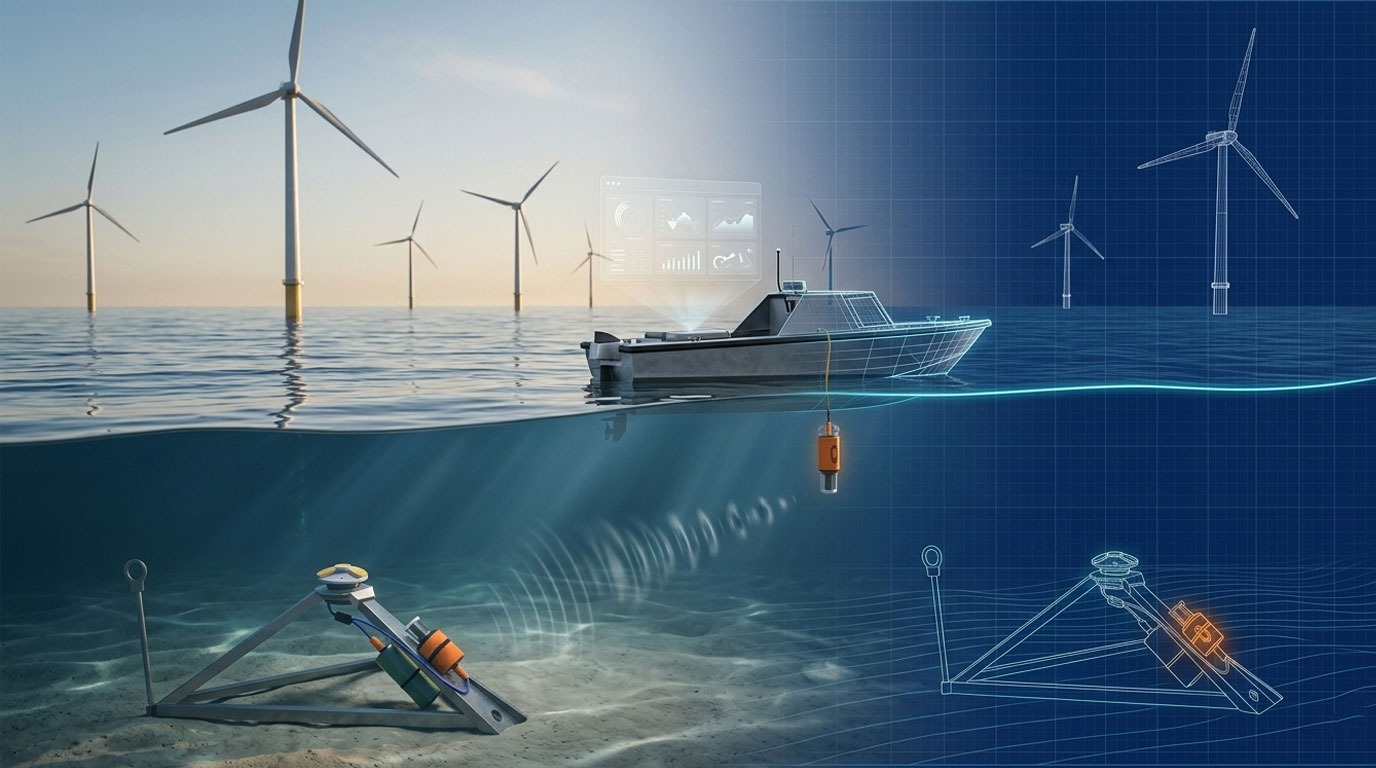
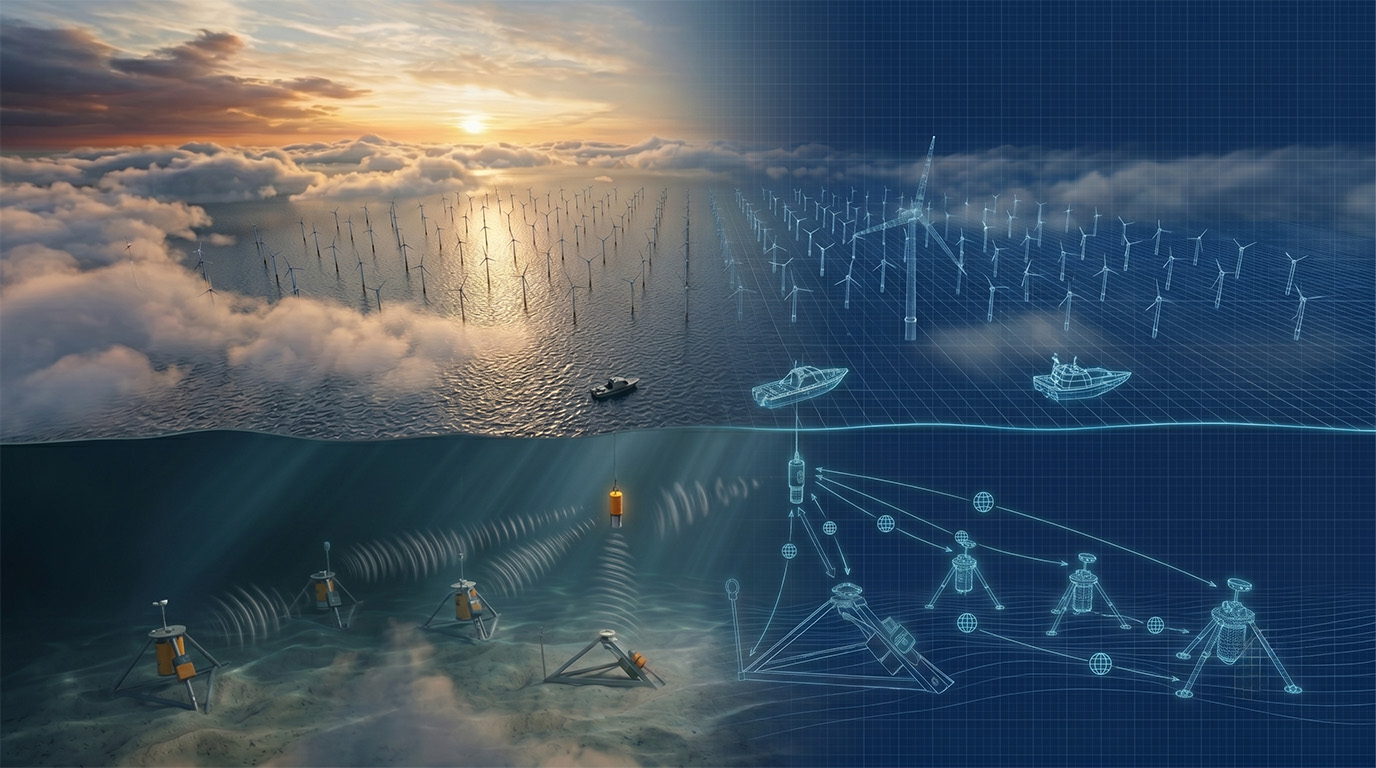
Merge pull request #364 from subnero1/solutions-update
Solutions update

Pull request: Solutions update

diff --git a/css/style.css b/css/style.css
@@ -4248,7 +4248,12 @@ h1.banner-sub-heading, h2.banner-sub-heading{
   border: 1px solid #E2E8F0;
   border-radius: 12px;
 }
-
+.solutions .wnc-card {
+  background-color: rgb(95 161 255 / 12%);
+}
+.solutions .wnc-card .g4x-h5 {
+  font-size: 1.74rem;
+}
 .row.flex-row {
   position: relative;
   display: flex;
@@ -7726,6 +7731,77 @@ a.usecase-card:hover {
 .g4x-hero-btns.data-harvesting {
   padding: 1rem 0 0;
 }
+.collaborators-intro {
+  display: flex;
+  flex-direction: column;
+  justify-content: center;
+  max-height: 360px;
+  padding: 2.4rem 3rem;
+  color: #fff;
+  background-repeat: no-repeat;
+  background-size: cover;
+  border-radius: 12px;
+  overflow: hidden;
+}
+.collaborators-intro h2 {
+  position: relative;
+  font-size: 2rem;
+  font-weight: 600;
+  color: #fff;
+  text-transform: none;
+  letter-spacing: normal;
+}
+.collaborators-intro p {
+  position: relative;
+  color: #fff;
+}
+.collaborator {
+  padding: 2rem;
+  margin: 0;
+  border: 1px solid #e1e1e1;
+  border-radius: 8px;
+  background-color: #fff;
+}
+.collaborator + .collaborator {
+  margin-top: 1rem;
+}
+.collaborator header {
+  display: flex;
+  align-items: center;
+  justify-content: space-between;
+  margin-bottom: 1rem;
+}
+.collaborator h3 {
+  font-size: 24px;
+  font-weight: 600;
+  margin: 0;
+  text-transform: none;
+}
+.collaborator p {
+  color: #000;
+}
+.collaborator .chip {
+  background-color: #ff8241;
+  padding: 8px 16px;
+  border-radius: 100px;
+  color: #fff;
+  font-size: 14px;
+}
+.collaborator footer {
+  display: flex;
+  gap: 16px;
+}
+.collaborator a {
+  font-size: 16px;
+  padding: 8px 14px;
+  border: 1px solid currentColor;
+  border-radius: 6px;
+}
+.collaborator a:hover{
+  color: #006090;
+}
+
+
 @media (min-width: 1593px){
   .media.product{
     background:#ffffff;

diff --git a/solutions/data-harvesting.md b/solutions/data-harvesting.md
@@ -1,51 +1,47 @@
 ---
 layout: default
-title: Autonomous Acoustic Data Harvesting
+title: Autonomous Subsea Data Operations
 banner : images/banner-data-harvesting.jpg
-excerpt: The intelligent bridge between subsea assets and surface autonomy. Deploy seafloor assets and retrieve critical insights via USVs without ever sending a vessel to sea.
+excerpt: The communications layer that turns the seabed into a connected node. Recurring, vessel light subsea data from seabed to shore, through acoustic data harvesting.
 ---
 
 <section class="page-hero gen4x" style='background-image: url({{site.baseurl}}/{{page.banner}});'>
   <div class="row flex-row">
     <div class="hero-text">
-      <h4 class="g4x-tag">Autonomous Operations</h4>
-      <h1>Autonomous <span class="text-gradient g-blue">Acoustic Data Harvesting</span></h1>
-      <p>The intelligent bridge between subsea assets and surface autonomy.</p>
+      <h4 class="g4x-tag">For Unmanned Surface Vessels</h4>
+      <h1>Autonomous <span class="text-gradient g-blue">Subsea Data Operations</span></h1>
+      <p>Turning the seabed into a connected node, for recurring, vessel light subsea data.</p>
       <div class="g4x-hero-btns data-harvesting">
-        {%- include formContactUs.html suffix="_left" btnText="Interested in the solution?" -%}
-        {%- include formContactUs.html suffix="_right" btnText="Like to partner with us?" -%}
       </div>
     </div>
+  </div>
+</section>
+
+<section class="g4x-section" style="background-color:#F8FAFC;">
+  <div class="g4x-section-head">
+    <h2 class="sec-head text-gradient g-orange">Rethinking Subsea Data</h2>
+  </div>
+  <div class="row large py2">
+    <div class="feature-grid col2 solutions">
+      <div class="wnc-card p2">
+        <h5 class="g4x-h5 text-gradient g-orange">The Challenge</h5>
+        <p class="text-black-01">Retrieving seabed data has always meant sending a vessel, then waiting weeks for the results. For long term monitoring, that cost and delay no longer adds up.</p>
+      </div>
+      <div class="wnc-card p2">
+        <h5 class="g4x-h5 text-gradient g-orange">The Solution</h5>
+        <p class="text-black-01">Subnero's Autonomous Subsea Data Operations platform turns any USV into an intelligent data harvester, relaying seabed sensor data to your endpoint over satellite or cellular. One communication layer, managed end to end, from seabed to shore.</p>
+      </div>
+    </div> 
   </div>
 </section>
 
 <section class="g4x-section unet">
   <div class="row large">
     <div class="large-6 columns"> 
-      <h2 class="text-3xl text-600 capitalize-none text-gradient g-orange inline-block normal-spacing">Solution Overview</h2>
-      <p>As offshore operations transition to full autonomy, traditional data retrieval, relying on expensive telemetry buoys or manual diver intervention, has become a significant bottleneck.</p>
-      <p>Subnero’s Acoustic Data Harvesting Solution transforms any Unmanned Surface Vehicle (USV) into an intelligent data mule. By offloading the complexity of underwater connectivity to our smart modems, we enable seamless, end-to-end, high-speed data collection from seafloor assets with zero human-in-the-loop.</p>
-      <div class="list-grid-wrap">
-        <h4 class="text-lg text-600">The Subnero Advantage</h4>
-        <div class="list-grid">
-          <div class="list-icon-row">
-            <svg xmlns="http://www.w3.org/2000/svg" width="24" height="24" viewBox="0 0 24 24"><path fill="currentColor" d="m7 22l4-7.5l-8-1L15 2h2l-4 7.5l8 1L9 22z"/></svg>
-            <h4>Seamless End-to-End Connectivity</h4>
-          </div>
-          <div class="list-icon-row">
-            <svg xmlns="http://www.w3.org/2000/svg" width="32" height="32" viewBox="0 0 24 24"><!-- Icon from Material Symbols by Google - https://github.com/google/material-design-icons/blob/master/LICENSE --><path fill="currentColor" d="m19 9l-1.25-2.75L15 5l2.75-1.25L19 1l1.25 2.75L23 5l-2.75 1.25L19 9Zm0 14l-1.25-2.75L15 19l2.75-1.25L19 15l1.25 2.75L23 19l-2.75 1.25L19 23ZM9 20l-2.5-5.5L1 12l5.5-2.5L9 4l2.5 5.5L17 12l-5.5 2.5L9 20Z"/></svg>
-            <h4>Zero Manual Intervention</h4>
-          </div> 
-          <div class="list-icon-row">
-            <svg xmlns="http://www.w3.org/2000/svg" width="24" height="24" viewBox="0 0 16 16"><path fill="currentColor" d="M8 0c2.12 0 4.16.843 5.66 2.34C15.16 3.84 16 5.88 16 8a8.02 8.02 0 0 1-2.34 5.66A8 8 0 0 1 8 16a8.02 8.02 0 0 1-5.66-2.34A8 8 0 0 1 0 8c0-2.12.843-4.16 2.34-5.66C3.84.84 5.88 0 8 0m1.76 11H6.23l.05.305c.119.655.266 1.24.43 1.75l.127.365c.365.988.792 1.58 1.16 1.58s.792-.59 1.16-1.58l.126-.365q.274-.863.43-1.75l.05-.305zm-4.54 0H1.68a7.14 7.14 0 0 0 1.94 2.46a7.1 7.1 0 0 0 2.82 1.37c-.531-.868-.953-2.16-1.2-3.71l-.017-.114zm9.11 0h-3.55l-.016.114c-.245 1.54-.667 2.84-1.2 3.71a7 7 0 0 0 2.82-1.37a6.9 6.9 0 0 0 1.94-2.46v-.001zM5.1 6H1.3a7 7 0 0 0-.29 2c0 .695.101 1.37.29 2l3.8-.001l-.038-.459Q4.932 7.77 5.1 6m4.8 0H6.11a19.4 19.4 0 0 0 0 4H9.9c.138-1.33.138-2.67 0-4m4.81 0h-3.8l.04.459q.129 1.77-.04 3.54h3.8a7 7 0 0 0 0-4zM6.43 1.18l-.071.018a7.1 7.1 0 0 0-2.78 1.37a6.9 6.9 0 0 0-1.91 2.43h3.55l.017-.114c.245-1.54.667-2.84 1.2-3.71l-.001-.001zM8 1.005c-.365 0-.792.59-1.16 1.58l-.126.365a14 14 0 0 0-.43 1.75l-.051.305h3.53l-.05-.305a13 13 0 0 0-.43-1.75l-.126-.365c-.341-.922-.736-1.5-1.08-1.57l-.074-.007zm1.57.176l.065.108c.5.866.898 2.12 1.13 3.6l.016.114h3.55a7.14 7.14 0 0 0-1.94-2.46a7.1 7.1 0 0 0-2.82-1.37z"/></svg>
-            <h4>Global Near-Real-Time Access</h4>
-          </div> 
-          <div class="list-icon-row">
-            <svg xmlns="http://www.w3.org/2000/svg" width="24" height="24" viewBox="0 0 24 24"><path fill="currentColor" d="M14 9h-4a1 1 0 0 0-1 1v4a1 1 0 0 0 1 1h4a1 1 0 0 0 1-1v-4a1 1 0 0 0-1-1m-1 4h-2v-2h2Zm8 0a1 1 0 0 0 0-2h-2V9h2a1 1 0 0 0 0-2h-2.18A3 3 0 0 0 17 5.18V3a1 1 0 0 0-2 0v2h-2V3a1 1 0 0 0-2 0v2H9V3a1 1 0 0 0-2 0v2.18A3 3 0 0 0 5.18 7H3a1 1 0 0 0 0 2h2v2H3a1 1 0 0 0 0 2h2v2H3a1 1 0 0 0 0 2h2.18A3 3 0 0 0 7 18.82V21a1 1 0 0 0 2 0v-2h2v2a1 1 0 0 0 2 0v-2h2v2a1 1 0 0 0 2 0v-2.18A3 3 0 0 0 18.82 17H21a1 1 0 0 0 0-2h-2v-2Zm-4 3a1 1 0 0 1-1 1H8a1 1 0 0 1-1-1V8a1 1 0 0 1 1-1h8a1 1 0 0 1 1 1Z"/></svg>
-            <h4>SWIS-Enabled Intelligence</h4>
-          </div>
-        </div>
-      </div>
+      <h2 class="text-3xl text-600 capitalize-none text-gradient g-orange inline-block normal-spacing">A Smart, Integrated System</h2>
+      <p>The Autonomous Subsea Data Operations platform is built as one system, not a stack of parts. Seabed landers carry your chosen sensors. A Subnero equipped USV transits the site and harvests data acoustically. Satellite or cellular backhaul carries it to the user’s cloud or operations center, where analytics turn it into decisions.</p>
+      <p>Subnero Acoustic Smart Modems sit at every seabed sensor node and on the USV, running edge intelligence that processes data where it is generated. Above the surface, Subnero’s software defined networking stack takes over, intelligently routing that data across available links such as satellite, cellular, or terrestrial, all the way to the user’s endpoint.</p>
+      <p><b>One communication layer, spanning the entire path from seabed to shore.</b></p>
     </div>
     <div class="large-6 columns">
       <figure class="col-figure no-shadow">
@@ -104,7 +100,7 @@ excerpt: The intelligent bridge between subsea assets and surface autonomy. Depl
         </div>
         <div>
           <h5>05. Near Real-Time Relay</h5>
-          <p>Harvested data is instantly uploaded to the cloud using high-speed satellite or 4G/LTE networks, delivering insights to your desktop.</p>
+          <p>Harvested data is instantly uploaded to the cloud using high-speed satellite or 4G/LTE networks, delivering the right information to your endpoint.</p>
         </div>
       </div>
       <div class="docs-card column-card data-harvesting">
@@ -128,38 +124,38 @@ excerpt: The intelligent bridge between subsea assets and surface autonomy. Depl
     <div class="feature-grid col3 operational-advantages">
       <div class="docs-card uj">
         <div>
-          <h5>Fully Autonomous Operation</h5>
-          <p>Independent management of the entire retrieval lifecycle.</p>
+          <h5>One system, end to end</h5>
+          <p>Seabed sensors, USV, backhaul, and user endpoint, all connected through a single Subnero communication layer.</p>
         </div>
       </div>
       <div class="docs-card uj">
         <div>
-          <h5>Enhanced Safety</h5>
-          <p>Remove personnel from high-risk offshore environments.</p>
+          <h5>Intelligence at the edge</h5>
+          <p>Subnero Acoustic Smart Modems process data where it is generated, so what reaches you is information, not noise.</p>
         </div>
       </div>
       <div class="docs-card uj">
         <div>
-          <h5>Orders of Magnitude Cost Savings</h5>
-          <p>Eliminate specialized crewed vessels and mobilization logistics.</p>
+          <h5>Software defined, link agnostic</h5>
+          <p>Subnero’s networking stack intelligently routes data across satellite, cellular, or terrestrial links, all the way to your endpoint.</p>
         </div>
       </div>
       <div class="docs-card uj">
         <div>
-          <h5>Scalable Network Architecture</h5>
-          <p>Support complex underwater clusters in a single mission.</p>
+          <h5>Reduced reliance on recovery vessels</h5>
+          <p>Replaces routine vessel mobilization with recurring autonomous USV missions, cutting day rate, fuel, and crew costs from every campaign.</p>
         </div>
       </div>
       <div class="docs-card uj">
         <div>
-          <h5>Rapid Data-to-Decision Cycle</h5>
-          <p>On-board edge processing delivers refined insights directly to the user.</p>
+          <h5>Scalable underwater networks</h5>
+          <p>One mission, many landers, one site wide dataset.</p>
         </div>
       </div>
       <div class="docs-card uj">
         <div>
-          <h5>Environmental Sustainability</h5>
-          <p>Deploy zero-emission USVs for data collection.</p>
+          <h5>USV agnostic by design</h5>
+          <p>Integrate with the surface platform of your choice. No lock in to a single vessel ecosystem.</p>
         </div>
       </div>
     </div>
@@ -214,7 +210,7 @@ excerpt: The intelligent bridge between subsea assets and surface autonomy. Depl
         </div>
         <div>
           <h5>Environmental Monitoring</h5>
-          <p>High-resolution temporal data via SWIS landers.</p>
+          <p>High-resolution temporal data via SWIS-integrated landers.</p>
         </div>
       </div>
       <div class="docs-card uj column-card">
@@ -248,6 +244,68 @@ excerpt: The intelligent bridge between subsea assets and surface autonomy. Depl
   </div>
 </section>
 
-<section class="call-to-action category-container mb2">
-  {%- include formCTA.html labelText="Want to know more about Autonomous Acoustic Data Harvesting or collaborate with us?" -%}
+
+<section class="g4x-section" style="background-color:#F8FAFC;">
+  <!-- <div class="g4x-section-head relative">
+    <h2 class="sec-head lg text-gradient g-orange normal-spacing">Collaborators</h2>
+  </div> -->
+  <div class="row large py2 relative">
+    <div class="feature-grid col2 collaborators">
+      <div class="collaborators-intro bg-gradient-img" style="background-image: url({{site.baseurl}}/images/collaborators.jpg);">
+        <h2>Working With Collaborators</h2>
+        <p>Subnero collaborates with leading USV operators, sensor manufacturers, and survey companies to bring Autonomous Subsea Data Operations to programs worldwide. Whether you operate your own USV fleet, work with a vessel provider, or are evaluating a new deployment, the platform is designed to integrate cleanly into your existing operations.</p>
+      </div>
+      <div class="collaborators-list">
+        <div class="collaborator">
+          <header>
+            <h3 class="text-gradient g-blue">HydroSurv</h3>
+            <p class="chip">Featured Collaboration</p>
+          </header>
+          <div>
+            <p>Subnero is collaborating with HydroSurv, a UK based designer and operator of battery electric and battery hybrid uncrewed surface vessels purpose built for the global survey industry. Together, the two companies are demonstrating a complete operational offering for persistent subsea monitoring.</p>
+          </div>
+          <footer>
+            <a href="{{site.baseurl}}/partnership/2026/06/03/Subnero-HydroSurv-Collaborate-on-Autonomous-Subsea-Data-Operations.html">Read the announcement</a>
+            <a href="{{site.baseurl}}/brochures/Autonomous-Subsea-Data-Operations-Joint-Brief.pdf" title="Autonomous Subsea Data Operations Joint Brief" target="_blank">Download the collaboration brief</a>
+          </footer>
+        </div>
+      </div>
+    </div>
+  </div>
 </section>
+
+<section class="g4x-section">
+  <div class="g4x-section-head relative">
+    <h2 class="sec-head lg text-gradient g-orange normal-spacing">Download</h2>
+  </div>
+  <div class="row relative">
+    <div class="feature-grid col2">
+			<a class="tech-link" href="{{site.baseurl}}/brochures/Autonomous-Subsea-Data-Operations-Subnero.pdf" title="Autonomous Subsea Data Operations Subnero" target="_blank">
+				<div class="tech-img md">
+					<img src="{{site.baseurl}}/brochures/autonomous-subsea-data-operations-subnero.jpg" alt="Autonomous Subsea Data Operations Subnero">
+				</div>
+				<div class="tech-content">
+          <p>Solution Brief</p>
+					<h4>For Any USV</h4>
+					<p>The communications layer for recurring, vessel light subsea data.</p>
+				</div>
+			</a>
+			<a class="tech-link" href="{{site.baseurl}}/brochures/Autonomous-Subsea-Data-Operations-Joint-Brief.pdf" title="Autonomous Subsea Data Operations Joint Brief" target="_blank">
+				<div class="tech-img md">
+					<img src="{{site.baseurl}}/brochures/autonomous-subsea-data-operations-joint-brief.jpg" alt="Autonomous Subsea Data Operations Joint Brief">
+				</div>
+				<div class="tech-content">
+          <p>Collaboration Brief</p>
+					<h4>Subnero and HydroSurv</h4>
+					<p>The integrated offering for complete operations.</p>
+				</div>
+			</a>
+			
+		</div>
+  </div>
+</section>
+
+<section class="call-to-action category-container mb2">
+  {%- include formCTA.html labelText="Want to know more about Autonomous Subsea Data Operations or collaborate with us?" -%}
+</section>
+

diff --git a/_posts/2026-06-08-Subnero-HydroSurv-Collaborate-on-Autonomous-Subsea-Data-Operations.md b/_posts/2026-06-08-Subnero-HydroSurv-Collaborate-on-Autonomous-Subsea-Data-Operations.md
@@ -1,0 +1,47 @@
+---
+layout: pulse_post
+title: Subnero and HydroSurv Collaborate on Autonomous Subsea Data Operations for Persistent Ocean Monitoring
+banner: images/banner-pulse-data-harvesting.jpg
+date:  2026-06-08
+categories: partnership
+thumbnail: images/pulse-thumbnail-data-harvesting.jpg
+---
+
+<div class="post-main" markdown="1">
+
+**Singapore, (8th June 2026)**
+
+Subnero Pte Ltd., a leader in underwater wireless communication and networking solutions, today announced a collaboration with HydroSurv, a UK-based designer and operator of uncrewed surface vessels (USVs), to demonstrate an autonomous subsea connectivity layer for persistent offshore and ocean monitoring programmes.
+
+The integrated solution combines HydroSurv’s battery-electric and battery-hybrid USVs with Subnero’s Acoustic Smart Modems and underwater networking software. Seabed landers fitted with industry-standard sensors such as ADCPs, CTDs and pressure sensors can communicate acoustically with a Subnero modem on board the USV, enabling data retrieval, remote configuration, status updates and onward relay over satellite or cellular backhaul to the user’s cloud endpoint or operations center.
+
+The result is a practical new operating model for long-term subsea monitoring: seabed assets stay deployed for longer, data can move more frequently, and operators can reduce reliance on routine crewed vessel mobilization and lander recovery cycles.
+
+Edge processing on Subnero Acoustic Smart Modems can filter, package and prioritize sensor data before transmission, helping users receive mission-relevant information that is ready to flow into their own analytics, models and decision workflows.
+
+> “Long-term subsea monitoring has historically been constrained by the cost, risk and delay of sending vessels offshore to retrieve data. Together with HydroSurv, we are showing how autonomous surface platforms and intelligent underwater communications can create a new operating model: one where seabed assets remain deployed, data moves more frequently, and operators can interact with subsea systems without routine recovery campaigns.” — **Manu Ignatius (CEO, Subnero)**
+
+> “HydroSurv are pleased to be working with SubNero to integrate their acoustic modem technology with our USV platforms to support lower-footprint subsea data harvesting. Following a visit to the team in Singapore and the successful integration of the first modem this month, we now have a strong foundation for trials and evaluation over the summer. We look forward to exploring how the capability can support reliable subsea data transfer and enable monitoring campaigns that have previously been uneconomic or operationally challenging.” — **David Hull (CEO, HydroSurv)**
+
+The solution is already being applied across multiple regions and use cases, including seagrass habitat monitoring, bathymetric survey support and tide gauge data collection. Each deployment hardens the technology against real ocean conditions and broadens the catalogue of sensors, mission profiles and environments the platform can support.
+
+For offshore wind, oil and gas, ocean science, environmental monitoring and critical subsea infrastructure programmes, the collaboration points to a future in which persistent subsea assets can be monitored and interacted with more regularly, with fewer offshore interventions and faster access to operational data.
+
+**About HydroSurv**
+
+HydroSurv is a global innovator in Uncrewed Surface Vessel (USV) technology, specialising in low-impact platforms for marine survey and environmental monitoring. Based in Exeter, UK, the company develops and deploys advanced solutions for coastal and offshore applications worldwide, with a focus on sustainable marine operations and high-quality data acquisition. For more information, visit www.hydro-surv.com.
+
+**About Subnero**
+
+Subnero develops underwater communication, networking and edge-intelligence technologies that help connect subsea assets, autonomous platforms and customer systems. Through its Acoustic Smart Modem platform and UnetStack networking software, Subnero enables data exchange, remote interaction and scalable underwater connectivity across defence, offshore energy, marine, subsea and scientific applications. For more information, visit subnero.com.
+
+Media Contact: [email redacted]
+
+</div>
+
+<div class="post-sidebar" markdown="1">
+
+<div class="static-content">
+{% include postSidebar.html %}
+</div>
+</div>

diff --git a/solutions/index.md b/solutions/index.md
@@ -18,25 +18,25 @@ excerpt: Subnero's solutions for marine robots and underwater sensors.
 
 <section class="g4x-section" id="data-harvesting">
   <div class="g4x-section-head">
-    <h2 class="sec-head text-gradient g-orange">Autonomous Acoustic Data Harvesting</h2>
-    <p class="sec-subhead">The intelligent bridge between subsea assets and surface autonomy.</p>
+    <h2 class="sec-head text-gradient g-orange">Autonomous Subsea Data Operations</h2>
+    <p class="sec-subhead">The communications layer that turns the seabed into a connected node.</p>
   </div>
   <div class="row large">
     <div class="large-6 columns"> 
       <div class="category-content">
-        <p>Transform any Unmanned Surface Vehicle (USV) into an intelligent data harvester. By offloading communication complexities to our SWIS-enabled smart modems, this solution enables seamless, high-speed, end-to-end data collection from seafloor assets directly to your office, eliminating the need for expensive crewed vessels and manual intervention.</p>
+        <p>Turn any Unmanned Surface Vehicle (USV) into an intelligent data harvester. Through acoustic data harvesting, Subnero’s Acoustic Smart Modems and software defined networking move information from seabed sensors to your endpoint over satellite or cellular backhaul, reducing reliance on crewed recovery vessels.</p>
         <h4>Features</h4>
         <ul>
-          <li>Zero-Intervention Operations.</li>
-          <li>Massive Cost Savings.</li>
-          <li>Plug-and-Play Integration.</li>
-          <li>Near Real-Time Insights.</li>
+          <li>One communication layer, seabed to shore</li>
+          <li>Intelligence at the edge</li>
+          <li>Software defined, link agnostic</li>
+          <li>Reduced reliance on recovery vessels</li>
         </ul>
-        <p><a class="button g-orange-btn mt1 rounded-sm anim" href="{{site.baseurl}}/solutions/data-harvesting">Explore Acoustic Data Harvesting &#8594;</a></p>
+        <p><a class="button g-orange-btn mt1 rounded-sm anim" href="{{site.baseurl}}/solutions/data-harvesting">Explore Autonomous Subsea Data Operations &#8594;</a></p>
       </div>
     </div>
     <div class="large-6 columns ">
-      <img alt="Autonomous Acoustic Data Harvesting" class="rounded-sm" src="{{site.baseurl}}/images/solutions-data-harvesting-bg.jpg"/>
+      <img alt="Autonomous Subsea Data Operations" class="rounded-sm" src="{{site.baseurl}}/images/solutions-data-harvesting-bg.jpg"/>
     </div>  
   </div>
 </section>